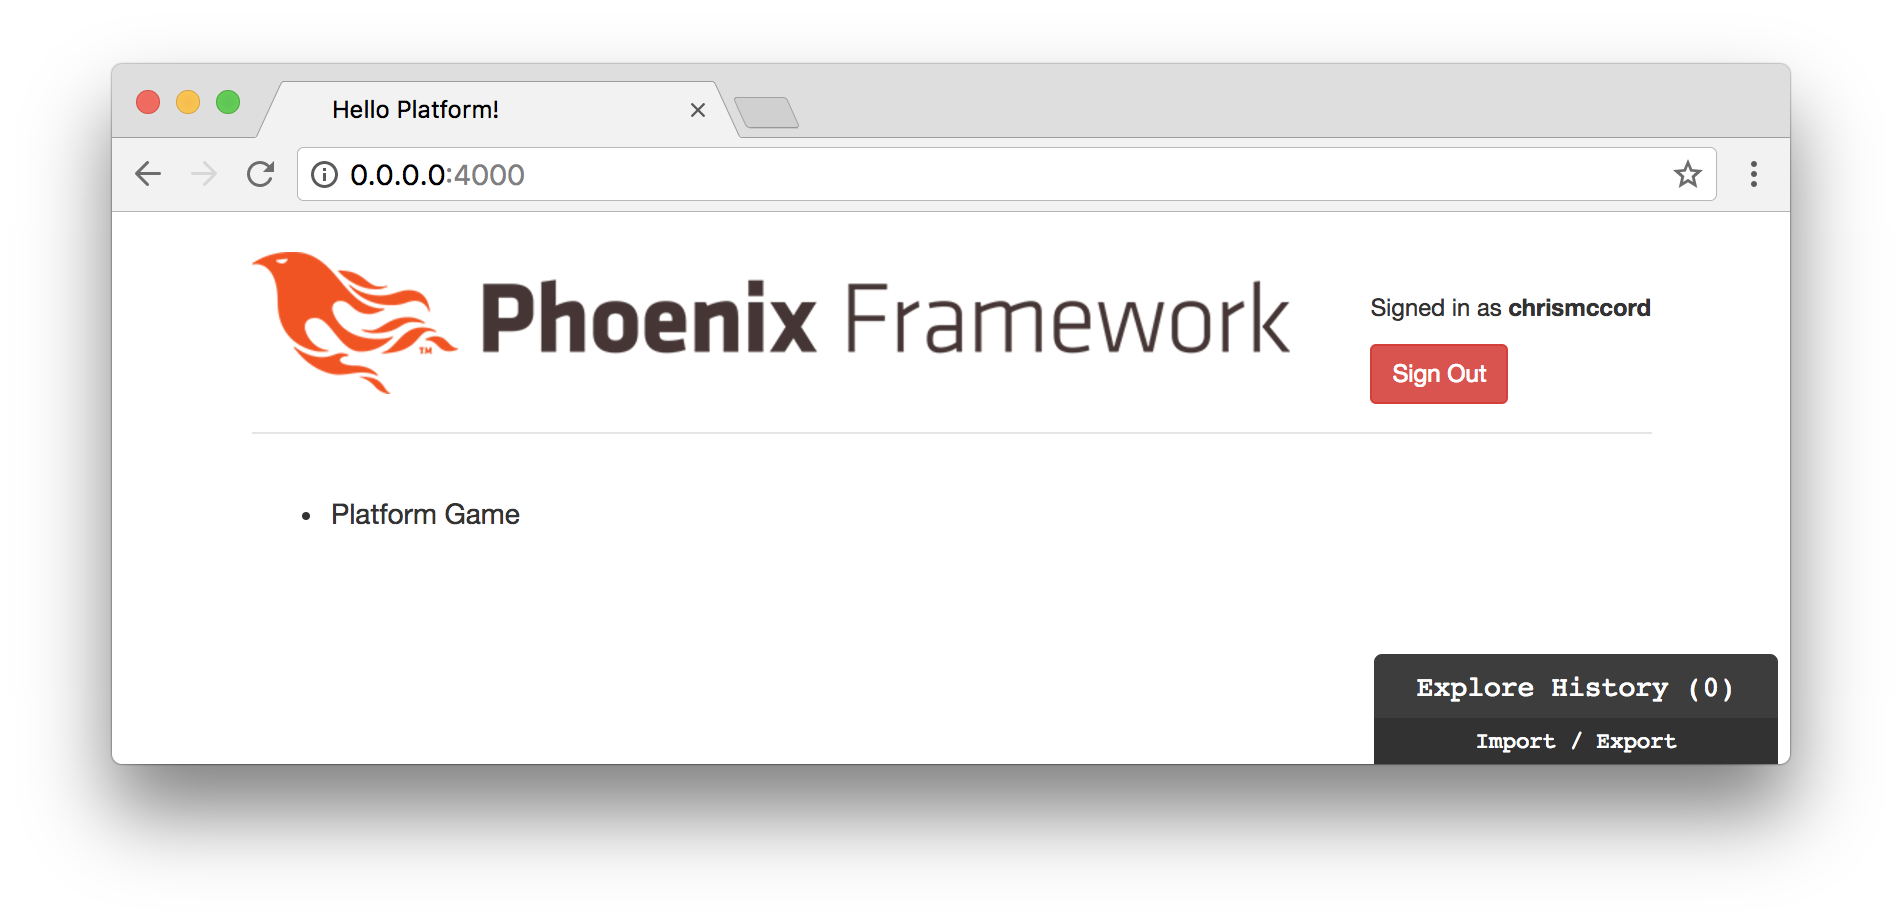
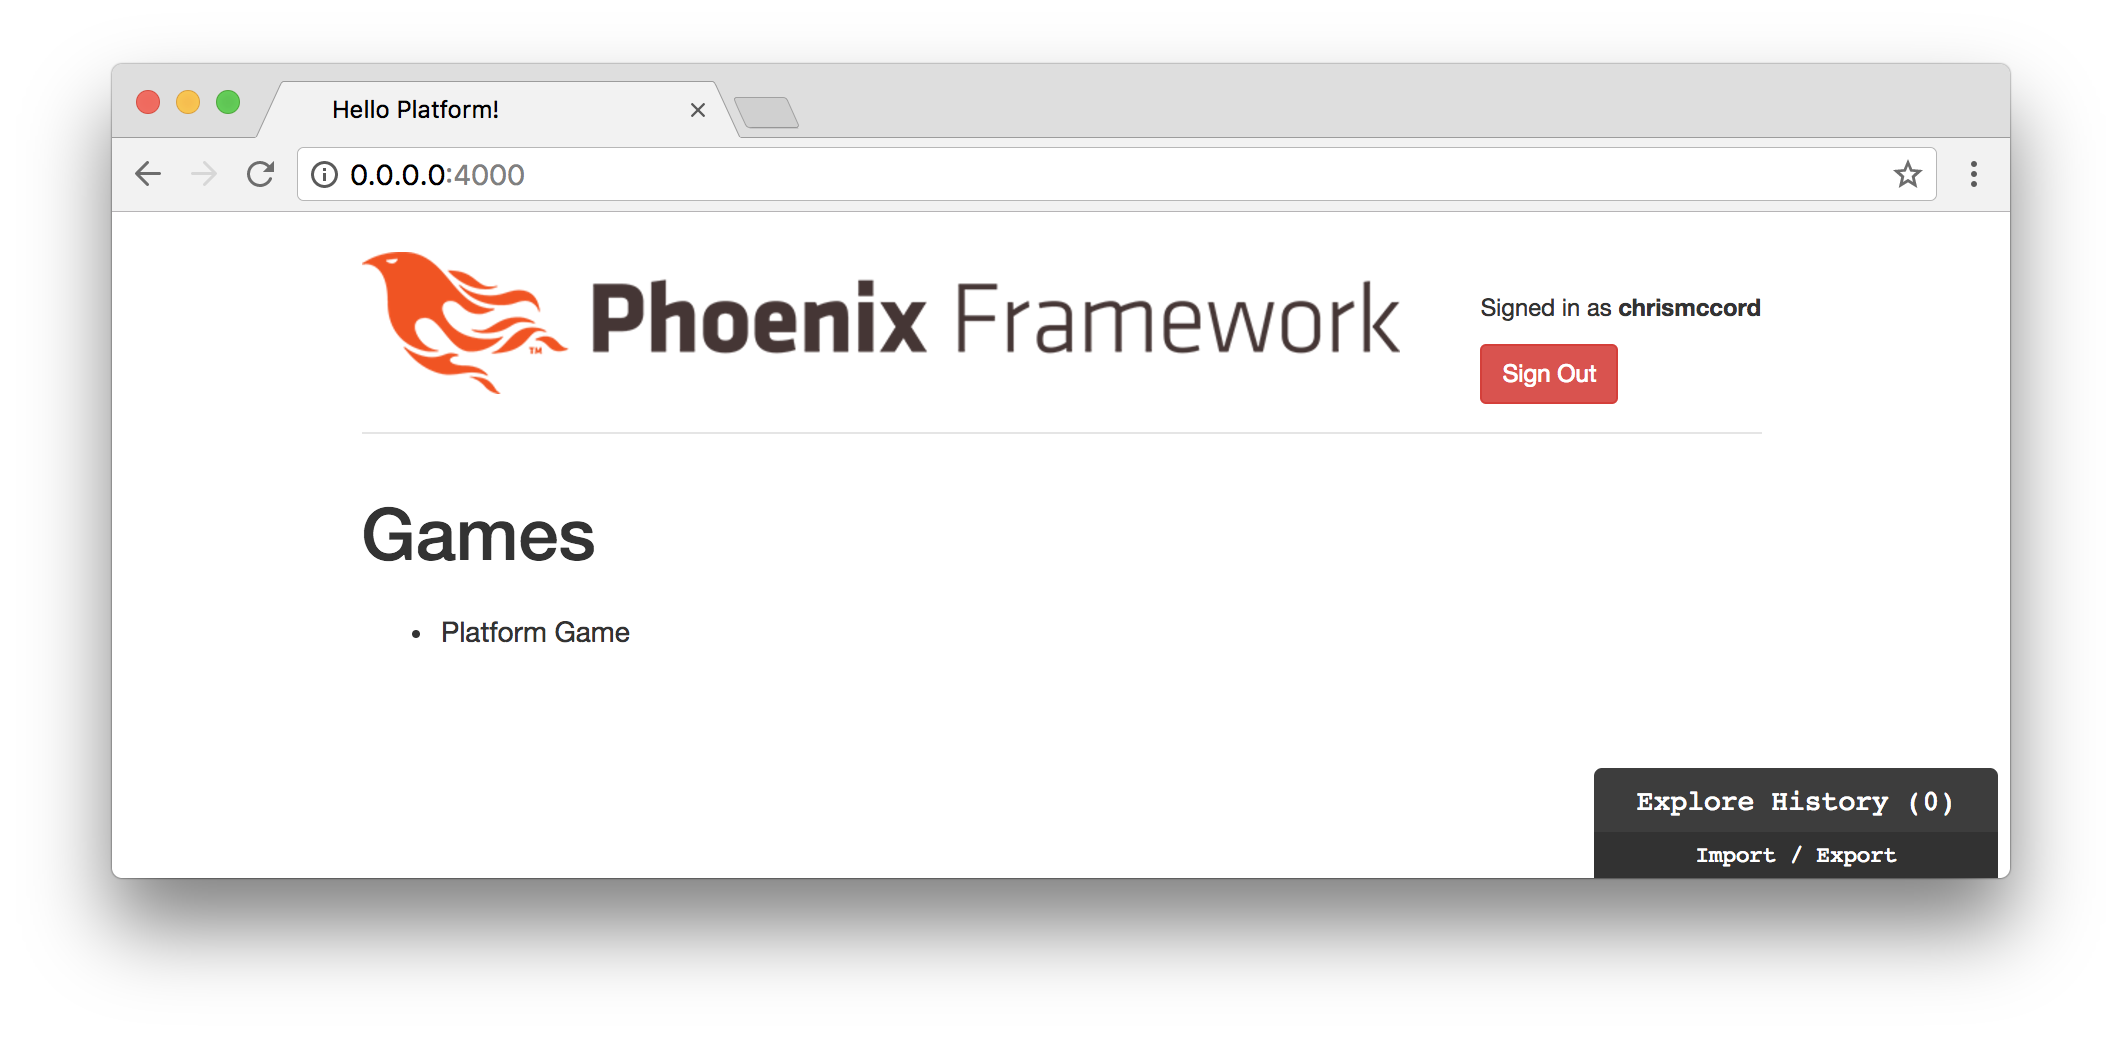
Update content and screenshots for Elm Application chapter

diff --git a/manuscript/elm_application.md b/manuscript/elm_application.md
@@ -253,8 +253,8 @@ gamesListItem =
     li [] [ text "Platform Game" ]
 ```
 
-Lastly, we can just assign our new `gamesIndex` function to `main` and it will
-render our new structure to the page with a single game:
+With our `main` function, we can create a `div` that will display a header and
+our `gamesIndex` to render our new structure to the page with a single game:
 
 ```elm
 module Main exposing (..)
@@ -265,7 +265,10 @@ import Html.Attributes exposing (..)
 
 main : Html msg
 main =
-    gamesIndex
+    div []
+        [ h1 [] [ text "Games" ]
+        , gamesIndex
+        ]
 
 
 gamesIndex : Html msg
@@ -287,7 +290,7 @@ gamesListItem =
 
 ## Extracting Our Data
 
-Currently, we have some hard-coded `view` data. But most Elm applications will
+Currently, we've hard-coded our view data. But most Elm applications will
 separate the data into a model. I find it helpful to add comments and
 placeholder functions to my code so I can start to scaffold out where I want
 things to go. In this example, we're going to start our `model` as an empty
@@ -305,7 +308,10 @@ import Html.Attributes exposing (..)
 
 main : Html msg
 main =
-    gamesIndex
+    div []
+        [ h1 [] [ text "Games" ]
+        , gamesIndex
+        ]
 
 
 
@@ -524,13 +530,14 @@ Elm, but it becomes one of our most treasured assets.
 
 We know how to display a single item from our `model` using `List.head`. But
 how do we iterate through all the game titles and display them on the page?
-We're going to use `List.map` to iterate through our values and pass them to
-our `gamesList` function.
+We can use
+[`List.map`](http://package.elm-lang.org/packages/elm-lang/core/latest/List#map)
+to iterate through our values and pass them to our `gamesList` function.
 
 We can start by refactoring our view functions to accept arguments. This is
 going to be a little difficult at first since we have to make changes to
-`gamesIndex`, `gamesList`, and `gamesListItem` all at the same time, but at the
-end we'll have all the data from our Model being displayed in the View.
+`gamesIndex`, `gamesList`, and `gamesListItem` all at the same time. At the
+end, we'll have all the data from our model being displayed in the view.
 
 First, let's update our `gamesIndex` function to take our `model` as an
 argument, and we'll call the argument `gameTitles`. This will involve updating
@@ -543,11 +550,10 @@ gamesIndex gameTitles =
     div [ class "games-index" ] [ gamesList gameTitles ]
 ```
 
-Now we have to update our `gamesList` function to accept the argument that
+Now, we have to update our `gamesList` function to accept the argument that
 we're passing along from our `gamesIndex` function. We'll update the type
 annotation, add the `gameTitles` argument, and then we'll take a look at the
-`map` function from the
-[`List` module](http://package.elm-lang.org/packages/elm-lang/core/latest/List):
+`map` function from the `List` module:
 
 ```elm
 gamesList : List String -> Html msg
@@ -556,10 +562,9 @@ gamesList gameTitles =
 ```
 
 There's a lot going on here. We're accepting a list of strings as the argument
-to our `gamesList` function. Then we're going to iterate through those game
-titles one at a time using `List.map`. Take a look at the `List.map` function
-in the link to the Elm documentation posted above, and we'll see that it takes
-two arguments: a function and a list.
+to our `gamesList` function. Then, we're going to iterate through those game
+titles one at a time using `List.map`. Take a look at the documentation for the
+[`List.map`](http://package.elm-lang.org/packages/elm-lang/core/latest/List#map) function, and we see that it takes two arguments: a function and a list.
 
 What's happening is that we're passing the list of all our game titles to the
 `List.map` function, and it's splitting them apart and sending the titles one
@@ -581,7 +586,7 @@ gamesListItem gameTitle =
 ```
 
 Our `gamesListItem` function is using the individual strings that are getting
-passed from the `List.map` function in `gamesList`, and it's rendereing them
+passed from the `List.map` function in `gamesList`, and it's rendering them
 inside a `li` element.
 
 ## Tying It All Together
@@ -605,7 +610,10 @@ import Html.Attributes exposing (..)
 
 main : Html msg
 main =
-    gamesIndex model
+    div []
+        [ h1 [] [ text "Games" ]
+        , gamesIndex model
+        ]
 
 
 
@@ -614,9 +622,8 @@ main =
 
 model : List String
 model =
-    [ "Adventure Game"
-    , "Driving Game"
-    , "Platform Game"
+    [ "Platform Game"
+    , "Adventure Game"
     ]
 
 
@@ -639,6 +646,8 @@ gamesListItem gameTitle =
     li [] [ text gameTitle ]
 ```
 
+![Games List with Model Data](images/elm_application/games_list_with_model_data.png)
+
 With functional programming, one of the best strategies for improving our
 understanding is to think in terms of data transformation. We'll start with
 the data from our model, and we'll follow it through our application as we
@@ -647,13 +656,13 @@ render it onto the page.
 Our `model` function returns a list of strings. Each of these strings contains
 a game title that we'll use when we display our list of games.
 
-In our `main` function, we pass the data from our Model to our View by passing
-`model` to `gamesIndex`. This function gives us a `div` element as a container
-for our list of games, but it's essentially just passing the data through to
-our `gamesList` function without performing any alteration to the data. This
-might seem unnecessary, but we'll see the value of this approach later as we
-start building other views for our player index. And it currently enables us to
-keep our functions small and easy to understand.
+In our `main` function, we pass the data from our model to our view by passing
+`model` to `gamesIndex`. The `gamesIndex` function gives us a `div` element as
+a container for our list of games, but it's essentially just passing the data
+through to our `gamesList` function without performing any alteration to the
+data. This might seem unnecessary, but we'll see the value of this approach
+later as we start building other views for our player index. And it currently
+enables us to keep our functions small and easy to understand.
 
 The `gamesList` function is where most of the work is getting done. We're using
 `List.map` to iterate through our list of strings. We take in the full list of
@@ -681,7 +690,7 @@ and learned how to iterate through data with the `List` module.
 Since Elm applications tend to share a standard structure and follow similar
 patterns, the Elm community has adopted the Elm Architecture. We've already
 seen some of the concepts at play when we separated our code into separate
-sections for the Model and the View, and then pulled them together with the
+sections for the model and the view, and then pulled them together with the
 `main` function.
 
 In the next chapter, we'll take a deeper look at the Elm Architecture as we
